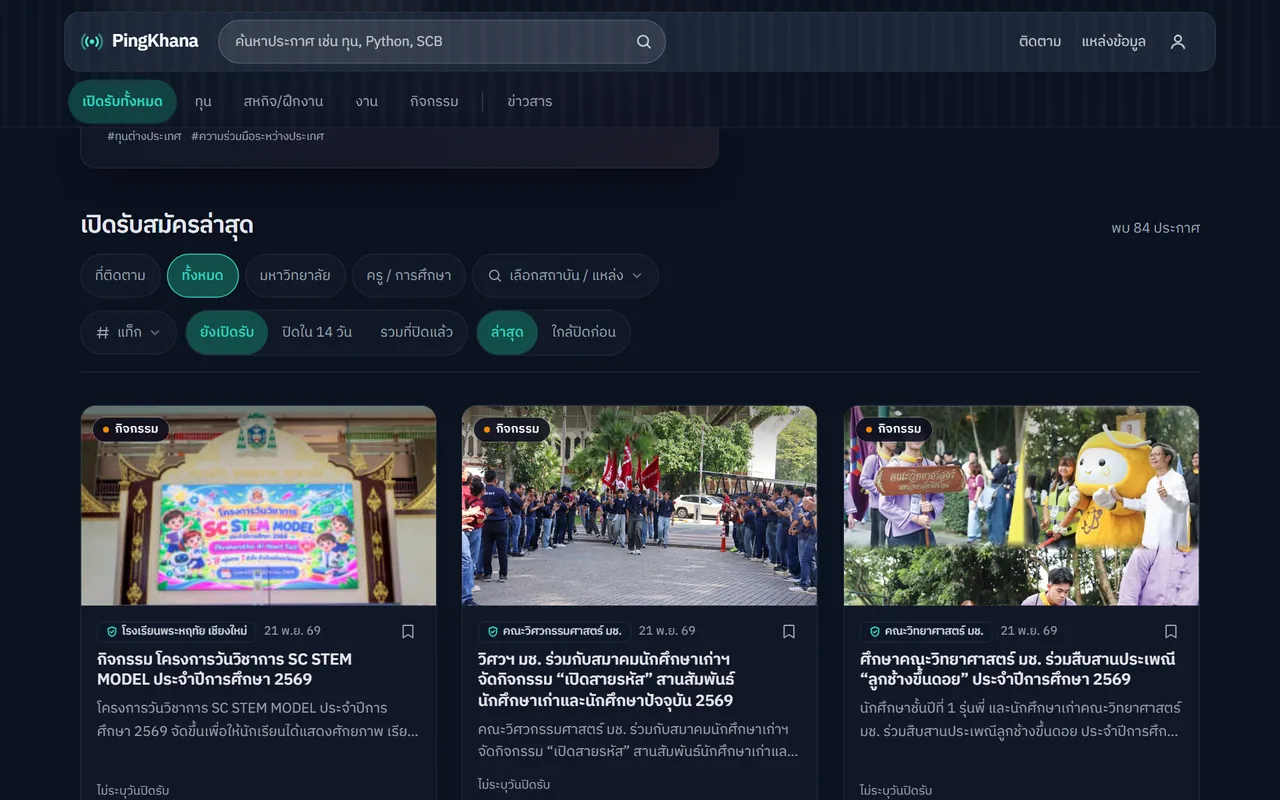
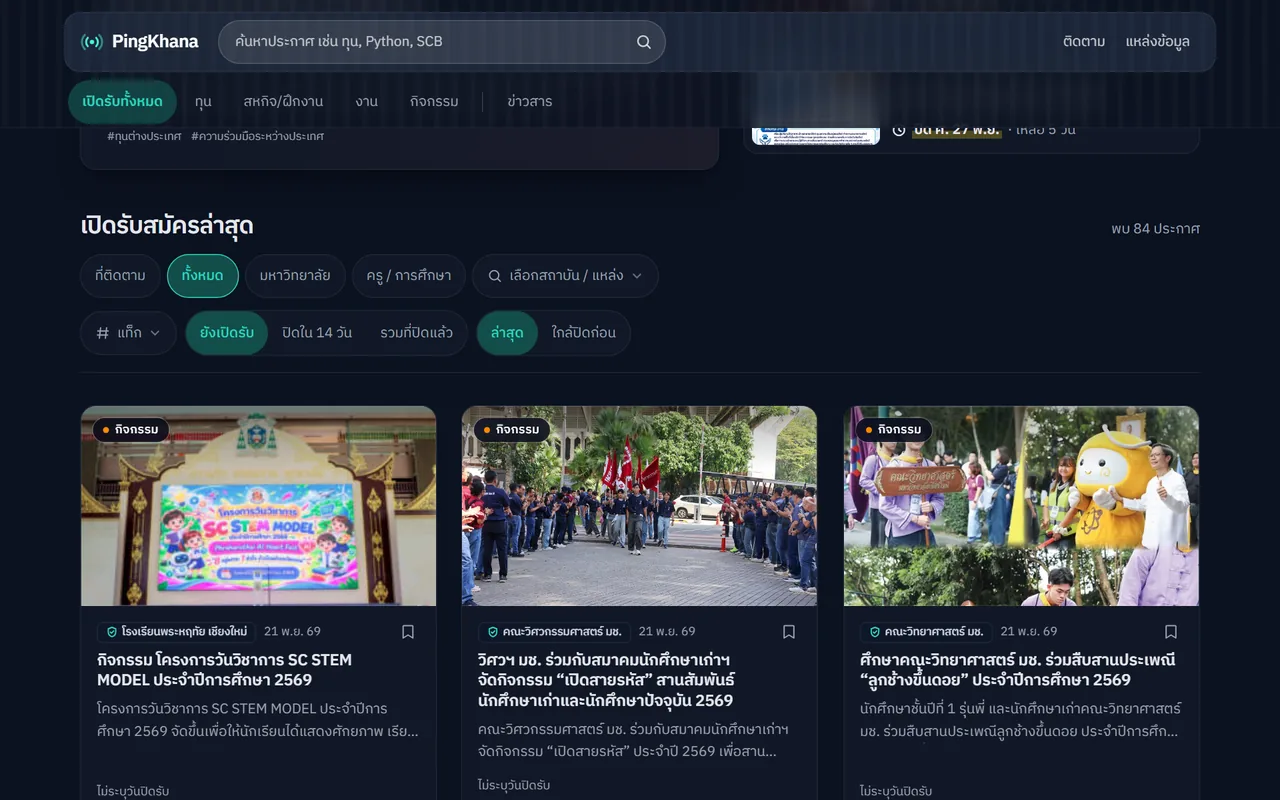
PingKhana: latest screenshots (countdown lead, poster in details)

diff --git a/index.html b/index.html
@@ -107,10 +107,10 @@
 
       <article class="flagship glass tilt" id="pingkhana" aria-labelledby="pingkhana-title">
         <div class="fl-media gallery">
-          <button type="button" class="shot-open" aria-label="Enlarge screenshot"><img src="img/pingkhana-home-1280.webp" srcset="img/pingkhana-home-640.webp 640w, img/pingkhana-home-1280.webp 1280w" sizes="(min-width: 1000px) 640px, 100vw" width="1280" height="800" loading="lazy" alt="PingKhana home page: scholarships, co-op, jobs and events that are open now, with the ones closing soonest listed first."></button>
+          <button type="button" class="shot-open" aria-label="Enlarge screenshot"><img src="img/pingkhana-home-1280.webp" srcset="img/pingkhana-home-640.webp 640w, img/pingkhana-home-1280.webp 1280w" sizes="(min-width: 1000px) 640px, 100vw" width="1280" height="800" loading="lazy" alt="PingKhana home page: scholarships, co-op, jobs and events that are open now, with a big countdown on the one closing soonest."></button>
           <div class="switcher" role="group" aria-label="PingKhana screens">
-            <button type="button" aria-pressed="true" data-src="img/pingkhana-home-1280.webp" data-srcset="img/pingkhana-home-640.webp 640w, img/pingkhana-home-1280.webp 1280w" data-alt="PingKhana home page: scholarships, co-op, jobs and events that are open now, with the ones closing soonest listed first.">Home</button>
-            <button type="button" aria-pressed="false" data-src="img/pingkhana-drawer-1280.webp" data-srcset="img/pingkhana-drawer-640.webp 640w, img/pingkhana-drawer-1280.webp 1280w" data-alt="PingKhana announcement details: a short Thai summary, the closing date with days left, and buttons for Google Calendar, .ics and a LINE reminder.">Details</button>
+            <button type="button" aria-pressed="true" data-src="img/pingkhana-home-1280.webp" data-srcset="img/pingkhana-home-640.webp 640w, img/pingkhana-home-1280.webp 1280w" data-alt="PingKhana home page: scholarships, co-op, jobs and events that are open now, with a big countdown on the one closing soonest.">Home</button>
+            <button type="button" aria-pressed="false" data-src="img/pingkhana-drawer-1280.webp" data-srcset="img/pingkhana-drawer-640.webp 640w, img/pingkhana-drawer-1280.webp 1280w" data-alt="PingKhana announcement details: the poster, a short Thai summary, the closing date with days left, and buttons for Google Calendar, .ics and a LINE reminder.">Details</button>
             <button type="button" aria-pressed="false" data-src="img/pingkhana-follow-1280.webp" data-srcset="img/pingkhana-follow-640.webp 640w, img/pingkhana-follow-1280.webp 1280w" data-alt="PingKhana follow page: tick the CMU, teacher and general news sources you want, without an account.">Follow</button>
             <button type="button" aria-pressed="false" data-src="img/pingkhana-line-1280.webp" data-srcset="img/pingkhana-line-640.webp 640w, img/pingkhana-line-1280.webp 1280w" data-alt="PingKhana LINE bot replying with a carousel of open announcements, each with its closing date and a reminder button.">LINE</button>
             <button type="button" aria-pressed="false" data-src="img/pingkhana-dark-1280.webp" data-srcset="img/pingkhana-dark-640.webp 640w, img/pingkhana-dark-1280.webp 1280w" data-alt="PingKhana in dark mode: filter chips and a grid of announcement cards with photos.">Dark mode</button>
